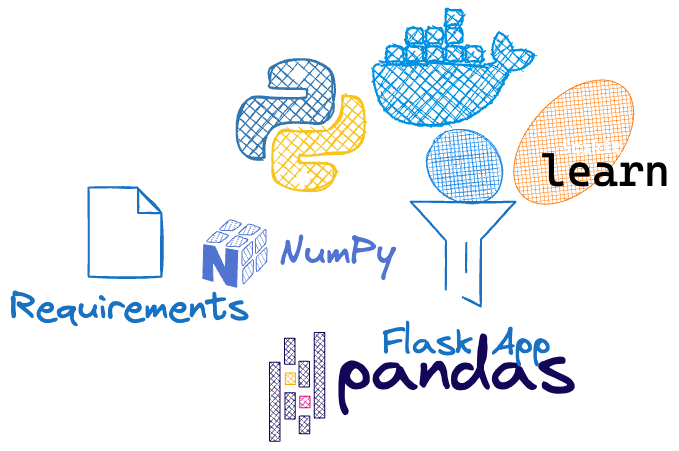
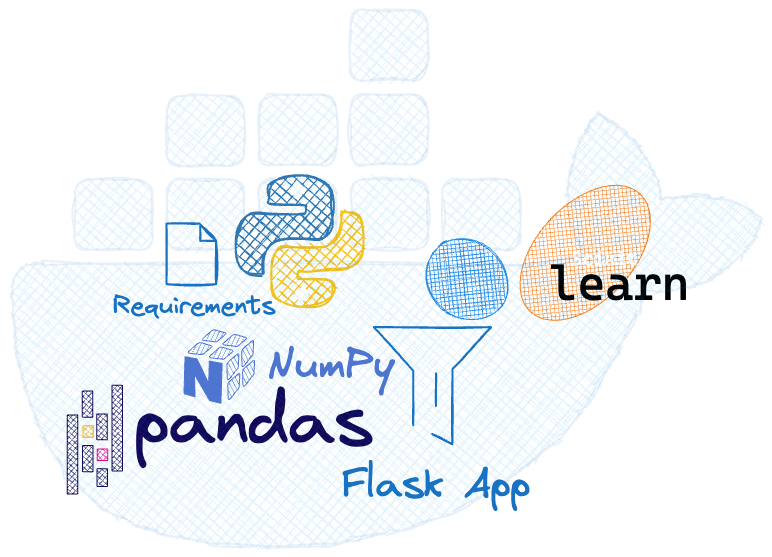
readme updated

diff --git a/README.md b/README.md
@@ -8,4 +8,11 @@ Diabetes mellitus, often known simply as diabetes, is a group of common endocrin
 
 This is a binary classification problem and our aim, in this study, is to come up with a supervised ML model which predicts diabetes for a person who provides the information with high accuracy. 
 
-<img src='static/images/project.png' />
+## Software And Tools Requirements
+<img src='static/images/project.png' width="50%" />
+
+- Flask
+- sklearn
+- pandas
+- numpy
+- pickle
